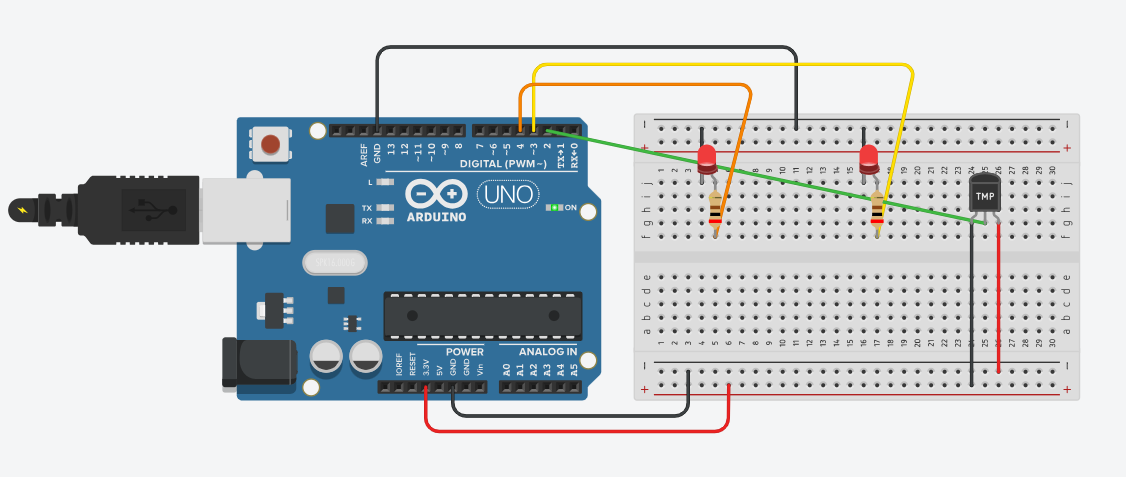
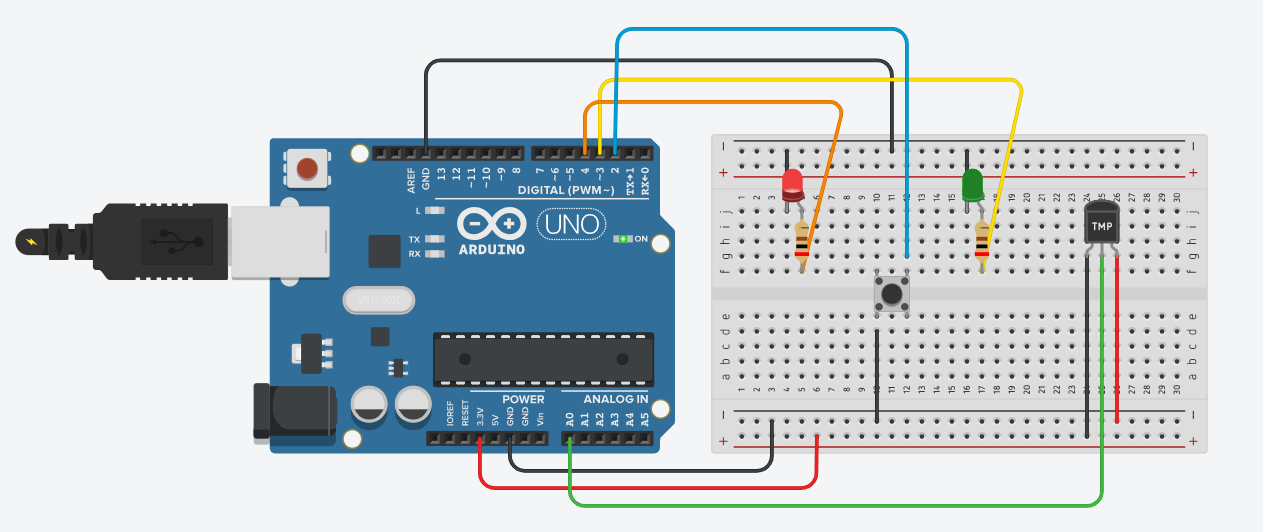
feat/tinkercad: added toggle button / temperature switch / led switch

Changed region(s): [[0.0, 0.0587, 0.9636, 0.9686], [0.4973, 0.0294, 0.7149, 0.0587]]

diff --git a/docs/tinkercad/tinkercad_code.c b/docs/tinkercad/tinkercad_code.c
@@ -2,7 +2,13 @@
 #define RED_LED 4
 #define GREEN_LED 3
 
+#define BUTTON_PIN 2
+
 #define TMP_PIN A0
+
+bool previousButtonState = 1;
+bool showCelsius = 1;
+bool showFarenheit = 0;
 
 void switchtTemp();
 
@@ -12,13 +18,43 @@ void setup() {
   // Setup led
   pinMode(RED_LED, OUTPUT);
   pinMode(GREEN_LED, OUTPUT);
+  
+  // Setup button
+  pinMode(BUTTON_PIN, INPUT_PULLUP);
 }
 
 void loop() {
   int TMPValue = analogRead(TMP_PIN);
+  // Read temp according to voltage (related to TMP)
   double Voltage = (TMPValue / 1023.0) * 5000;
   double tempC = (Voltage - 500) * 0.1;
+  double tempF = (tempC * 1.8) + 32;
   
-  Serial.println(tempC);
-  delay(1000);
+  bool buttonState = digitalRead(BUTTON_PIN);
+  
+  if (buttonState != previousButtonState) {
+    if (buttonState == HIGH) {
+      // Toggle temp mode
+      showCelsius = !showCelsius;
+      showFarenheit = !showFarenheit;
+      
+      // Turn Leds off
+      digitalWrite(RED_LED, LOW);
+      digitalWrite(GREEN_LED, LOW);
+    }
+    
+  	previousButtonState = buttonState;
+  }
+  
+  // display celsius temperature + turning led on
+  if (showCelsius) {
+    Serial.println(tempC);
+    digitalWrite(RED_LED, HIGH);
+  }
+  
+  // display farenheit temperature + turning led on
+  if (showFarenheit) {
+    Serial.println(tempF);
+    digitalWrite(GREEN_LED, HIGH);
+  }
 }
